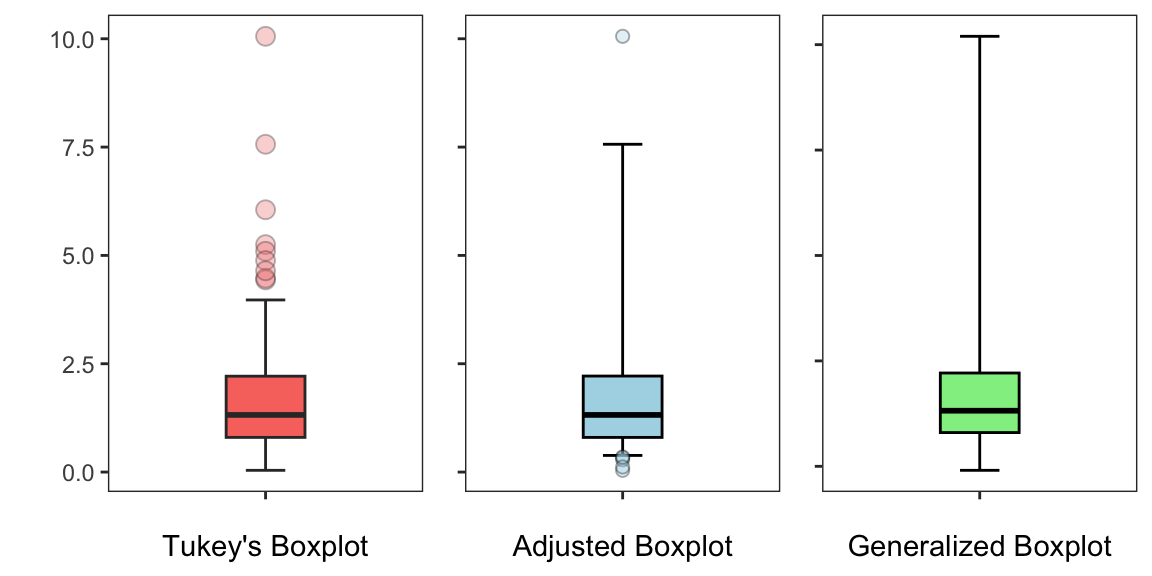
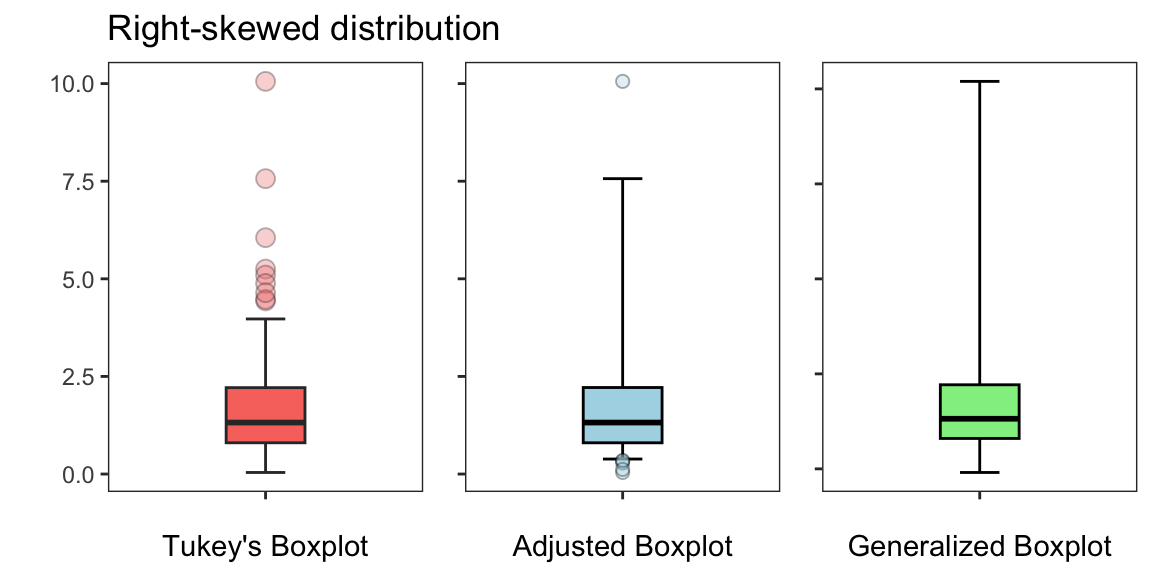
Updates

diff --git a/docs/blog/posts/post7/index.html b/docs/blog/posts/post7/index.html
@@ -242,11 +242,11 @@ window.Quarto = {
 </div>
 </div>
 </div>
-<p>Meanwhile, as boxplot is a widely used tool for visualizing data distributions, especially when those distributions are symmetric. However, its effectiveness diminishes when dealing with skewed data. In such cases, the boxplot can misrepresent the dataset’s nuances—most notably by classifying an excessive number of larger values as outliers when the distribution is skewed. Recognizing this limitation, Hubert and Vandervieren [2] introduced a refined version of Tukey’s boxplot rule. Their approach incorporates a robust measure of skewness, allowing for a more accurate depiction of asymmetrical distributions while preserving the simplicity and interpretability of the Tukey’s boxplot.</p>
+<p>Boxplots are a widely used tool for visualizing data distributions, particularly when the data exhibit a symmetrical mesokurtic distribution. However, its effectiveness diminishes when dealing with skewed data. In such cases, the boxplot can misrepresent the dataset’s nuances—most notably by classifying an excessive number of larger values as outliers when the distribution is skewed. Recognizing this limitation, Hubert and Vandervieren [2] introduced a refined version of Tukey’s boxplot rule. Their approach incorporates a robust measure of skewness, allowing for a more accurate depiction of asymmetrical distributions while preserving the simplicity and interpretability of the Tukey’s boxplot.</p>
 </section>
 <section id="the-adjusted-boxplot" class="level2">
 <h2 class="anchored" data-anchor-id="the-adjusted-boxplot">The Adjusted Boxplot</h2>
-<p>In 2004, Brys <em>et al</em>. [3] introduced the Medcouple (MC), which is a robust statistic used to measure the skewness of a distribution. Unlike traditional measures of skewness that are sensitive to outliers, MC focuses on the median and the IQR, making it less affected by extreme values. It is based on the difference between left and right data spreads relative to the median. MC is bounded between −1 and 1. A value of 0 indicates a perfectly symmetric distribution, while positive values signify a right-tailed (positively skewed) distribution, and negative values correspond to a left-tailed (negatively skewed) distribution. Importantly, this measure is most effective for moderately skewed distributions, particularly when the absolute value of MC is less than or equal to 0.6 (<span class="math inline">\(|\text{MC}| \leq 0.6\)</span>). MC is given by:</p>
+<p>In 2004, Brys <em>et al</em>. [3] introduced the medcouple (MC), which is a robust statistic used to measure the skewness of a distribution. Unlike traditional measures of skewness that are sensitive to outliers, MC focuses on the median and the IQR, making it less affected by extreme values. It is based on the difference between left and right data spreads relative to the median. MC is bounded between −1 and 1. A value of 0 indicates a perfectly symmetric distribution, while positive values signify a right-tailed (positively skewed) distribution, and negative values correspond to a left-tailed (negatively skewed) distribution. Importantly, this measure is most effective for moderately skewed distributions, particularly when the absolute value of MC is less than or equal to 0.6 (<span class="math inline">\(|\text{MC}| \leq 0.6\)</span>). MC is given by:</p>
 <p><span class="math display">\[
 \text{MC} = \text{med} \left\{ \frac{(x_i - m) - (m - x_j)}{x_i - x_j} \, \middle| \, x_i \geq m \geq x_j \right\}
 \]</span></p>
@@ -266,7 +266,7 @@ window.Quarto = {
     \text{Upper Fence} &amp;= Q_3 + k \cdot e^{4\text{MC}} \cdot \text{IQR}
 \end{aligned}
 \]</span></p>
-<p>where, <span class="math inline">\(k\)</span> is the fence factor. Hubert and Vandervieren [2] have optimized the adjusted boxplot for <span class="math inline">\(k = 1.5\)</span>. In the next Figure, we compare Tukey’s Boxplot (left) with the adjusted Boxplot (right), applied to a skewed data. The adjusted boxplot shows fewer outliers for the skewed data, reflecting its ability to handle skewness better.</p>
+<p>where, <span class="math inline">\(k\)</span> is the fence factor. Hubert and Vandervieren [2] have optimized the adjusted boxplot for <span class="math inline">\(k = 1.5\)</span>. In the next Figure, we compare Tukey’s boxplot (left) with the adjusted boxplot (right), applied to a skewed data. The adjusted boxplot shows fewer outliers for the skewed data, reflecting its ability to handle skewness better.</p>
 <div class="cell" data-layout-align="center">
 <div class="cell-output-display">
 <div class="quarto-figure quarto-figure-center">
@@ -277,7 +277,7 @@ window.Quarto = {
 </div>
 </div>
 <p>The adjusted boxplot has garnered attention for its ability to handle skewed data, even earning a mention on platforms like Wikipedia. However, it is not without its critiques.</p>
-<p>For example, Bruffaerts et al.&nbsp;[4] pointed out that the whiskers in the adjusted boxplot are designed to achieve a fixed outlier detection rate of 0.7%. While this threshold may be suitable for some applications, the process becomes cumbersome if one wishes to adopt a different detection rate. It requires re-running the simulations to determine a new tuning constant or fence factor (<span class="math inline">\(k\)</span>). Moreover, for datasets with heavy-tailed distributions, the adjusted boxplot may still misclassify observations, as the whisker adjustment relies solely on skewness and not on tail behavior. Another significant issue lies in its dependence on MC. While MC is effective for large samples, its estimation can be imprecise for small sample sizes.</p>
+<p>For example, Bruffaerts <em>et al</em>. [4] pointed out that the whiskers in the adjusted boxplot are designed to achieve a fixed outlier detection rate of 0.7%. While this threshold may be suitable for some applications, the process becomes cumbersome if one wishes to adopt a different detection rate. It requires re-running the simulations to determine a new tuning constant or fence factor (<span class="math inline">\(k\)</span>). Moreover, for datasets with heavy-tailed distributions, the adjusted boxplot may still misclassify observations, as the whisker adjustment relies solely on skewness and not on tail behavior. Another significant issue lies in its dependence on MC. While MC is effective for large samples, its estimation can be imprecise for small sample sizes.</p>
 <p>The Figure below illustrates the behavior of MC estimates for small and large sample sizes using density plots. To achieve this, we generated multiple random samples from a skewed Gamma distribution and examined the variability of the MC estimates across these sample sizes. For small sample sizes, the MC estimates exhibit significant variability, reflecting its reduced robustness in such cases. In contrast, as the sample size increases, the MC estimates stabilize and converge to a consistent value, demonstrating its improved precision and reliability with larger data.</p>
 <div class="cell" data-layout-align="center">
 <div class="cell-output-display">
@@ -292,20 +292,20 @@ window.Quarto = {
 </section>
 <section id="the-generalized-boxplot" class="level2">
 <h2 class="anchored" data-anchor-id="the-generalized-boxplot">The Generalized Boxplot</h2>
-<p>In 1977, Tukey introduced a family of distributions through two nonlinear transformations, giving rise to what is now known as the Tukey <span class="math inline">\(g\)</span>-<span class="math inline">\(h\)</span> distributions. These distributions are widely used in robust statistics and flexible modeling due to their ability to accommodate a range of skewness and kurtosis levels. The Tukey <span class="math inline">\(g\)</span>-<span class="math inline">\(h\)</span> distribution is defined by applying two transformations, <span class="math inline">\(g\)</span> (skewness) and <span class="math inline">\(h\)</span> (kurtosis), to a standard normal random variable <span class="math inline">\(Z \sim \mathcal{N}(0, 1)\)</span>. The resulting transformation is expressed by:</p>
+<p>In 1977, Tukey introduced a family of distributions through two nonlinear transformations, giving rise to what is now known as the Tukey <span class="math inline">\(g\)</span>-<span class="math inline">\(h\)</span> distributions [5,6]. These distributions are widely used in robust statistics and flexible modeling due to their ability to accommodate a range of skewness and kurtosis levels. The Tukey <span class="math inline">\(g\)</span>-<span class="math inline">\(h\)</span> distribution is defined by applying two transformations, <span class="math inline">\(g\)</span> (skewness) and <span class="math inline">\(h\)</span> (kurtosis), to a standard normal random variable <span class="math inline">\(Z \sim \mathcal{N}(0, 1)\)</span>. The resulting transformation is expressed by:</p>
 <p><span class="math display">\[
 T_{g,h}(Z) = \frac{e^{gZ}-1}{g} \cdot e^{h\frac{Z^2}{2}} \quad \text{with} \quad g \neq 0, h \in \mathbb{R}
 \]</span></p>
 <p>By adjusting <span class="math inline">\(g\)</span> and <span class="math inline">\(h\)</span>, the Tukey <span class="math inline">\(g\)</span>-<span class="math inline">\(h\)</span> distribution can model a wide variety of distribution, from symmetric to skewed, and from light-tailed to heavy-tailed distributions.</p>
-<p>The constants <span class="math inline">\(g\)</span> and <span class="math inline">\(h\)</span>, can be estimated from the empirical quantiles as follows [5]:</p>
+<p>The constants <span class="math inline">\(g\)</span> and <span class="math inline">\(h\)</span>, can be estimated from the empirical quantiles as follows:</p>
 <p><span class="math display">\[
 \hat{g} = \frac{1}{z_p} \text{ln}\left(-\frac{Q_p(\{x_j\})}{Q_{1-p}(\{x_j\})}\right),
 \quad
 \hat{h} = \frac{2}{z_p^2} \text{ln}\left(-\hat{g}\frac{Q_p(\{x_j\}) \cdot Q_{1-p}(\{x_j\})}{Q_p(\{x_j\}) + Q_{1-p}(\{x_j\})}\right)
 \]</span>where <span class="math inline">\(z_p\)</span> is the quantile of order <span class="math inline">\(p\)</span> of the standard normal distribution. <span class="math inline">\(Q_p\)</span> and <span class="math inline">\(Q_{1-p}\)</span> are the empirical quantiles of order <span class="math inline">\(p\)</span> (<span class="math inline">\(0.5&lt;p&lt;1\)</span>) and <span class="math inline">\(1-p\)</span> of the univariate data <span class="math inline">\(X = \{x_j\} = \{x_1, \cdots, x_n\}\)</span>.</p>
 <p>The generalized boxplot as proposed by Bruffaerts <em>et al</em>. [4] begins by applying a rank-preserving transformation to the data. This transformation maps the original observations onto the unit interval (0, 1), maintaining the order of the data points while capturing key distributional features like skewness and tail behavior. Then, an inverse normal transformation is applied, similar to rank-based approaches. This transformed distribution can be fine-tuned using the Tukey <span class="math inline">\(g\)</span>-<span class="math inline">\(h\)</span> distribution, whose quantiles are used to set the boxplot whiskers.</p>
-<p>The figures below illustrate a comparison of Tukey’s boxplot, the Adjusted boxplot, and the Generalized boxplot across three distinct types of data distributions: (<em>i</em>) a normal distribution, (<em>ii</em>) a right-skewed distribution, and (<em>iii</em>) a heavy-tailed distribution. This side-by-side comparison highlights how each method performs in identifying outliers and adapting to the unique characteristics of these distributions.</p>
-<p><strong>Case 1:</strong> Normal distribution</p>
+<p>The Figures below illustrate a comparison of Tukey’s boxplot, the adjusted boxplot, and the generalized boxplot across three distinct types of data distributions: (<em>i</em>) a normal distribution, (<em>ii</em>) a right-skewed distribution, and (<em>iii</em>) a heavy-tailed distribution. The Figures show how each method performs and adapts to the specific characteristics of these distributions, effectively balancing sensitivity to outliers without over-identifying them.</p>
+<p>For a symmetric distribution, all three boxplots produce similar results as expected.</p>
 <div class="cell" data-layout-align="center">
 <div class="cell-output-display">
 <div class="quarto-figure quarto-figure-center">
@@ -315,7 +315,7 @@ T_{g,h}(Z) = \frac{e^{gZ}-1}{g} \cdot e^{h\frac{Z^2}{2}} \quad \text{with} \quad
 </div>
 </div>
 </div>
-<p><strong>Case 2:</strong> Right-skewed distribution</p>
+<p>For a right-skewed distribution, the Tukey’s boxplot overestimates the number of outliers, while the adjusted and generalized boxplots provide a better representation of the underlying data distribution. The generalized boxplot, in particular, offers the most flexible approach by accommodating skewness.</p>
 <div class="cell" data-layout-align="center">
 <div class="cell-output-display">
 <div class="quarto-figure quarto-figure-center">
@@ -325,7 +325,7 @@ T_{g,h}(Z) = \frac{e^{gZ}-1}{g} \cdot e^{h\frac{Z^2}{2}} \quad \text{with} \quad
 </div>
 </div>
 </div>
-<p><strong>Case 3:</strong> Heavy-tailed distribution</p>
+<p>For a heavy-tailed distribution, the Tukey’s boxplot inaccurately identifies an excessive number of outliers due to its assumption of symmetry and limited adaptability to extreme tails. The adjusted boxplot improved upon Tukey’s boxplot by accounting for skewness in the data, yet it still struggles to effectively handle the variability and extreme values inherent in heavy-tailed distributions. In contrast, the generalized boxplot proves to be a more robust and versatile method. Its whiskers and overall box structure more accurately reflect the underlying data distribution, demonstrating its ability to adapt to both skewness and tail heaviness more effectively than the other two methods.</p>
 <div class="cell" data-layout-align="center">
 <div class="cell-output-display">
 <div class="quarto-figure quarto-figure-center">
@@ -336,10 +336,19 @@ T_{g,h}(Z) = \frac{e^{gZ}-1}{g} \cdot e^{h\frac{Z^2}{2}} \quad \text{with} \quad
 </div>
 </div>
 </section>
+<section id="conclusions" class="level2">
+<h2 class="anchored" data-anchor-id="conclusions">Conclusions</h2>
+<p>By comparing the three boxplot approaches, we show the limitations of Tukey’s boxplot when applied to skewed or heavy-tailed data. While Tukey’s method assumes symmetry and often flags excessive outliers in such cases, the adjusted boxplot improves this by incorporating a skewness measure (medcouple). The generalized boxplot provides the most robust solution by flexibly adapting to both skewness and tail heaviness through the Tukey <span class="math inline">\(g\)</span>-<span class="math inline">\(h\)</span> distribution. Overall, the adjusted and generalized boxplots are better suited for non-symmetric data, with the generalized boxplot offering the most robust approach.</p>
+</section>
 <section id="references" class="level2">
 <h2 class="anchored" data-anchor-id="references">References</h2>
 <ol type="1">
-<li>C. Bruffaerts, V. Verardi, C. Vermandele, (2014). A generalized boxplot for skewed and heavy-tailed distributions. Statistics &amp; Probability Letters, 95, 110–117.</li>
+<li><p>Tukey, J.W., (1977). Exploratory Data Analysis, Pearson, 1st edition, page 39.</p></li>
+<li><p>Hubert, M., Vandervieren, E., (2008). An adjusted boxplot for skewed distributions. <em>Computational Statistics and Data Analysis</em>, 52, 5186-5201.</p></li>
+<li><p>Brys, G., Hubert, M., Struyf, A., (2004). A robust measure of skewness. J<em>ournal of Computational and Graphical Statistics</em>, 13, 996-1017.</p></li>
+<li><p>Bruffaerts, C., Verardi, V., Vermandele, C., (2014). A generalized boxplot for skewed and heavy-tailed distributions. <em>Statistics &amp; Probability Letters</em>, 95, 110–117.</p></li>
+<li><p>Tukey, J.W., (1977). Modern techniques in data analysis. NSF‐sponsored regional research conference at Southeastern Massachusetts University, North Dartmouth, MA.</p></li>
+<li><p>Martinez, J., Iglewicz, B., (1984). Some properties of the Tukey g and h family of distributions. <em>Communications in Statistics: Theory and Methods</em>, 13, 353–369.</p></li>
 </ol>
 </section>
 </div>

diff --git a/docs/blog/index.html b/docs/blog/index.html
@@ -263,7 +263,7 @@ Christian L. Goueguel
 </a>
 </div>
 </div>
[2 lines of base64/hex data omitted]
 <div class="thumbnail">
 <p><a href="../blog/posts/post7/index.html" class="no-external"></a></p><a href="../blog/posts/post7/index.html" class="no-external">
 <p><img loading="lazy" src="../blog/posts/post7/cover.png" class="thumbnail-image"></p>
@@ -289,7 +289,7 @@ Nov 20, 2023
 Christian L. Goueguel
 </div>
 <div class="listing-reading-time">
-14 min
+16 min
 </div>
 </a>
 </div>
